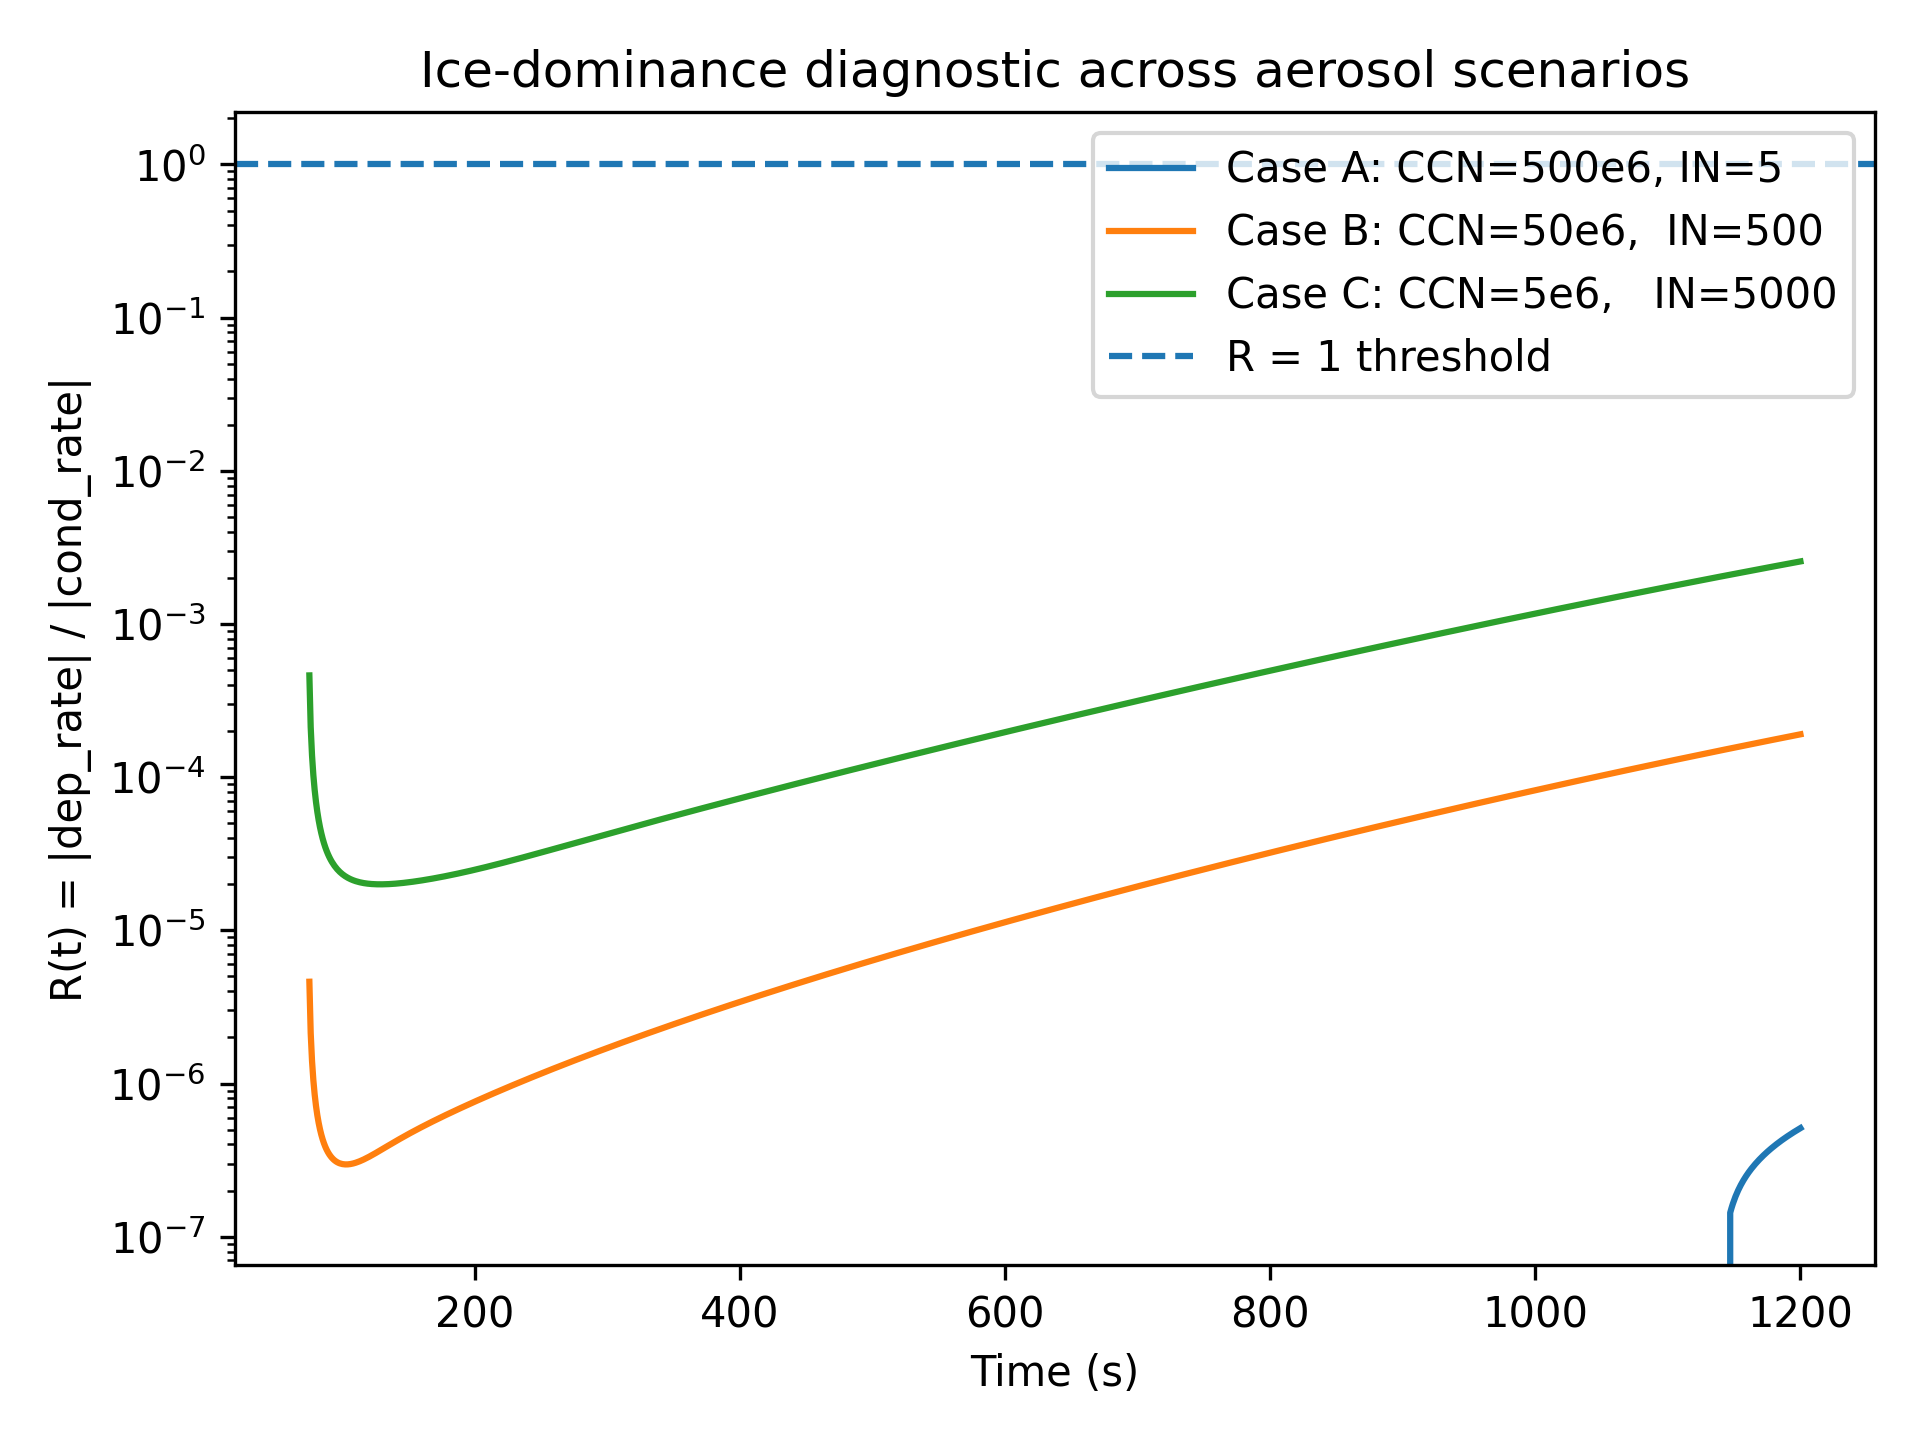
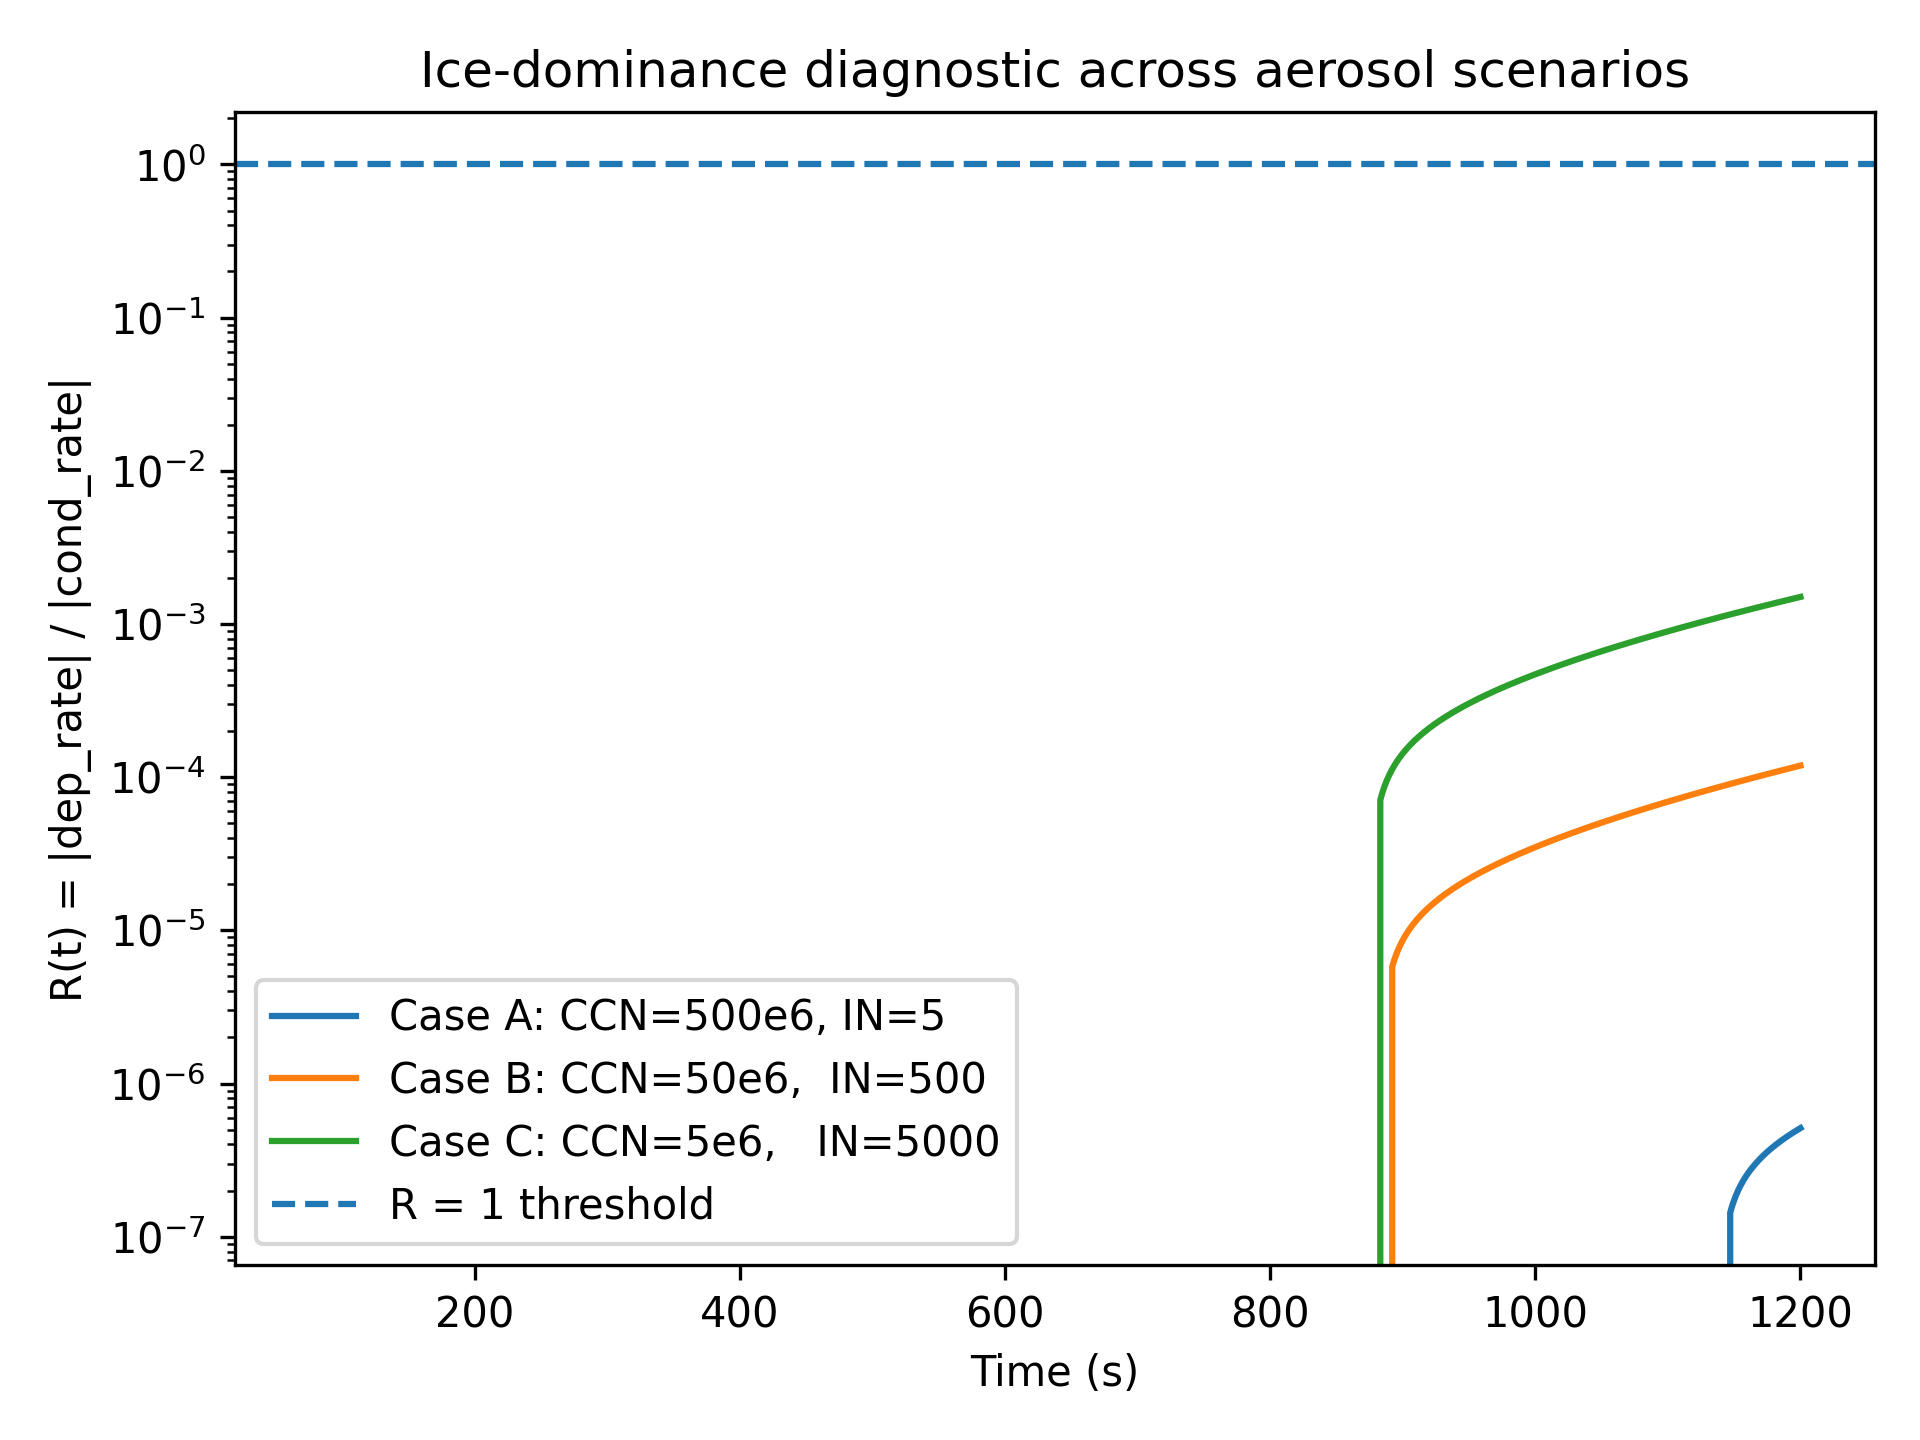
Mixed-phase parcel model with Sw/Si separation and BF transition diagnostics
git commit -m "Mixed-phase parcel model with physically based Sw/Si separation, latent heating, and Bergeron-Findeisen transition diagnostics"

diff --git a/parcel_model/run_Rmax_map_w_IN.py b/parcel_model/run_Rmax_map_w_IN.py
@@ -1,0 +1,133 @@
+import numpy as np
+import pandas as pd
+import matplotlib.pyplot as plt
+
+from run_mixed_phase_maxwell import run
+
+
+def compute_Rmax(csv_file):
+
+    df = pd.read_csv(csv_file)
+
+    cond = np.abs(df["cond_rate_kgm3s"].values)
+    dep = np.abs(df["dep_rate_kgm3s"].values)
+
+    cond_thresh = 1e-12
+    valid = cond > cond_thresh
+
+    if np.any(valid):
+        R = dep[valid] / cond[valid]
+        return np.nanmax(R)
+    else:
+        return 0.0
+
+
+def main():
+
+    # Fixed CCN
+    CCN_fixed = 50e6
+
+    # Sweep grid
+    w_list = [0.2, 0.5, 1.0, 1.5, 2.0]
+    IN_list = [5, 50, 500, 5000, 50000]
+
+    Rmax = np.zeros((len(IN_list), len(w_list)))
+
+    for i, IN in enumerate(IN_list):
+        for j, w in enumerate(w_list):
+
+            outcsv = f"timeseries_CCN{int(CCN_fixed)}_w{w}_IN{int(IN)}.csv"
+
+            print("-------------------------------------------")
+            print(f"Running simulation: w={w}, IN={IN}")
+            print("-------------------------------------------")
+
+            run(
+                w=w,
+                dt=1.0,
+                t_end=1200.0,
+                sulfate_N=CCN_fixed,
+                bio_N=float(IN),
+                outfile=outcsv
+            )
+
+            Rmax[i, j] = compute_Rmax(outcsv)
+
+            print("R_max =", Rmax[i, j])
+            print()
+
+    # =========================
+    # HEATMAP
+    # =========================
+
+    plt.figure()
+
+    extent = [
+        min(w_list),
+        max(w_list),
+        np.log10(min(IN_list)),
+        np.log10(max(IN_list))
+    ]
+
+    plt.imshow(
+        Rmax,
+        origin="lower",
+        aspect="auto",
+        extent=extent
+    )
+
+    plt.colorbar(label="R_max = max(|dep| / |cond|)")
+    plt.xlabel("Updraft velocity w (m/s)")
+    plt.ylabel("log10(IN)")
+    plt.title("R_max map across (w, IN) with CCN fixed = 50e6")
+
+    # Contour line R = 1
+    w_vals = np.array(w_list)
+    in_vals_log = np.log10(np.array(IN_list))
+
+    W, INLOG = np.meshgrid(w_vals, in_vals_log)
+
+    cs = plt.contour(
+        W,
+        INLOG,
+        Rmax,
+        levels=[1.0],
+        colors="white",
+        linewidths=2
+    )
+
+    plt.clabel(cs, fmt={1.0: "R=1"}, inline=True)
+
+    plt.tight_layout()
+    plt.savefig("Rmax_map_w_IN_CCN50e6_contour.png", dpi=300)
+
+    print("Saved: Rmax_map_w_IN_CCN50e6_contour.png")
+
+    # =========================
+    # 3D SURFACE
+    # =========================
+
+    from mpl_toolkits.mplot3d import Axes3D
+
+    W, IN = np.meshgrid(w_list, np.log10(IN_list))
+    Z = np.log10(np.maximum(Rmax, 1e-20))
+
+    fig = plt.figure()
+    ax = fig.add_subplot(111, projection="3d")
+
+    ax.plot_surface(W, IN, Z)
+
+    ax.set_xlabel("w (m/s)")
+    ax.set_ylabel("log10(IN)")
+    ax.set_zlabel("log10(R_max)")
+
+    ax.set_title("3D surface: log10(R_max)")
+
+    plt.tight_layout()
+    plt.savefig("Rmax_3D_w_IN_CCN50e6.png", dpi=300)
+
+    print("Saved: Rmax_3D_w_IN_CCN50e6.png")
+
+
+if __name__ == "__main__":
+    main()

diff --git a/parcel_model/run_R_w_sweep.py b/parcel_model/run_R_w_sweep.py
@@ -1,0 +1,72 @@
+import numpy as np
+import pandas as pd
+import matplotlib.pyplot as plt
+
+from run_mixed_phase_maxwell import run
+
+
+def compute_R_masked(df, cond_thresh=1e-12):
+    t = df["t_s"].values
+    cond = np.abs(df["cond_rate_kgm3s"].values)
+    dep  = np.abs(df["dep_rate_kgm3s"].values)
+
+    R = np.full_like(t, np.nan, dtype=float)
+    ok = cond > cond_thresh
+    R[ok] = dep[ok] / cond[ok]
+    return t, R
+
+
+def main():
+    # --- Choose w values (m/s)
+    w_cases = [0.2, 0.5, 1.0, 2.0]
+
+    # --- Keep aerosol/IN fixed (edit if you want)
+    sulfate_N = 50e6   # baseline CCN
+    bio_N = 5.0         # baseline IN
+
+    # --- Mask threshold
+    cond_thresh = 1e-12
+
+    plt.figure()
+
+    for w in w_cases:
+        outcsv = f"timeseries_w{w:.1f}.csv"
+
+        print("\n" + "-"*70)
+        print(f"Running w = {w:.2f} m/s  (CCN={sulfate_N:.2e}, IN={bio_N:.2e})")
+        print(f" -> outfile: {outcsv}")
+        print("-"*70)
+
+        # Run model
+        # (This assumes your run() accepts sulfate_N and bio_N.
+        #  If not, tell me and I'll adapt the script to your current version.)
+        run(
+            w=w,
+            dt=1.0,
+            t_end=1200.0,
+            sulfate_N=sulfate_N,
+            bio_N=bio_N,
+            outfile=outcsv
+        )
+
+        # Load & compute R
+        df = pd.read_csv(outcsv)
+        t, R = compute_R_masked(df, cond_thresh=cond_thresh)
+        R_max = np.nanmax(R)
+        print(f"Max R (masked): {R_max:.3e}")
+
+        plt.plot(t, R, label=f"w = {w:.1f} m/s")
+
+    plt.axhline(1.0, linestyle="--", label="R = 1 threshold")
+    plt.xlabel("Time (s)")
+    plt.ylabel("R = |dep_rate| / |cond_rate|")
+    plt.title("Ice-dominance diagnostic across updraft velocity cases")
+    plt.yscale("log")
+    plt.legend()
+    plt.tight_layout()
+    plt.savefig("R_w_sweep_vs_time.png", dpi=300)
+    print("\nSaved: R_w_sweep_vs_time.png")
+
+
+if __name__ == "__main__":
+    main()

diff --git a/parcel_model/biological_in.py b/parcel_model/biological_in.py
@@ -7,17 +7,6 @@ import math
 class BiologicalIN:
     """
     Minimal representation of a biological ice-nucleating particle (IN) class.
-
-    Parameters
-    ----------
-    name : str
-        Name of the biological IN class
-    N : float
-        Number concentration (m^-3)
-    T50 : float
-        Temperature (K) at which 50% of particles are ice-active
-    width : float
-        Controls how rapidly activation increases with decreasing temperature (K)
     """
 
     def __init__(self, name: str, N: float, T50: float = 263.15, width: float = 2.0):
@@ -42,19 +31,25 @@ class BiologicalIN:
         return self.N * self.ice_active_fraction(T)
 
 
-def check_ice_nucleation(T: float, bio_in: BiologicalIN, N_threshold: float = 1.0):
+def check_ice_nucleation(
+    T: float,
+    bio_in: BiologicalIN,
+    N_threshold: float = 1.0,
+    frac_threshold: float = 0.1,
+    T_max: float = 273.15
+):
     """
-    Simple ice nucleation check.
-
-    If the number of active IN exceeds a threshold, nucleation is assumed to occur.
-
-    Returns
-    -------
-    nucleated : bool
-        Whether ice nucleation occurs
-    N_active : float
-        Active IN number concentration (m^-3)
+    Physically constrained ice nucleation check.
     """
+
     N_active = bio_in.active_IN_number(T)
-    nucleated = (N_active >= N_threshold)
+
+    # Guard: no nucleation above freezing
+    if T > T_max:
+        return False, N_active
+
+    # Require meaningful active fraction
+    crit = max(float(N_threshold), float(frac_threshold) * bio_in.N)
+    nucleated = (N_active >= crit)
+
     return nucleated, N_active

diff --git a/parcel_model/run_mixed_phase_maxwell.py b/parcel_model/run_mixed_phase_maxwell.py
@@ -55,14 +55,24 @@ def G_ice(T, esi, P=P0):
 def q_from_N_r(N, r, rho):
     return N * (4.0 / 3.0) * math.pi * rho * r**3
 
-def run(w=1.0, dt=1.0, t_end=1200.0,
-        sulfate_N=500e6,
-        bio_N=5.0,
-        outfile="mixed_phase_maxwell_timeseries.csv"):
+def run(
+    w=1.0,
+    dt=1.0,
+    t_end=1200.0,
+    outfile="mixed_phase_maxwell_timeseries.csv",
+    sulfate_N=500e6,
+    pollen_N=3000.0,
+    bio_N=5.0,
+    bio_T50=263.15,
+    bio_width=2.0
+):
     sulfate = AerosolPopulation("sulfate", N=sulfate_N, radius=30e-9, kappa=1.0, rho_p=1770.0)
-    pollen  = AerosolPopulation("pollen",  N=3000.0, radius=5e-6,  kappa=0.1, rho_p=1000.0)
+    print("DEBUG sulfate_N =", sulfate_N, "bio_N =", bio_N, "w =", w)
+    pollen  = AerosolPopulation("pollen",  N=pollen_N,  radius=5e-6,  kappa=0.1, rho_p=1000.0)
 
-    bio = BiologicalIN(name="bioIN", N=bio_N, T50=263.15, width=2.0)
+    bio = BiologicalIN(name="bioIN", N=bio_N, T50=bio_T50, width=bio_width)
+
+
 
     # Parcel state
     T = 273.15

diff --git a/parcel_model/plot_R_ratio.py b/parcel_model/plot_R_ratio.py
@@ -1,9 +1,10 @@
 import numpy as np
 import pandas as pd
 import matplotlib.pyplot as plt
+import sys
 
 def main():
-    csv_file = "mixed_phase_maxwell_timeseries.csv"
+    csv_file = sys.argv[1] if len(sys.argv) > 1 else "mixed_phase_maxwell_timeseries.csv"
     df = pd.read_csv(csv_file)
 
     # Required columns
